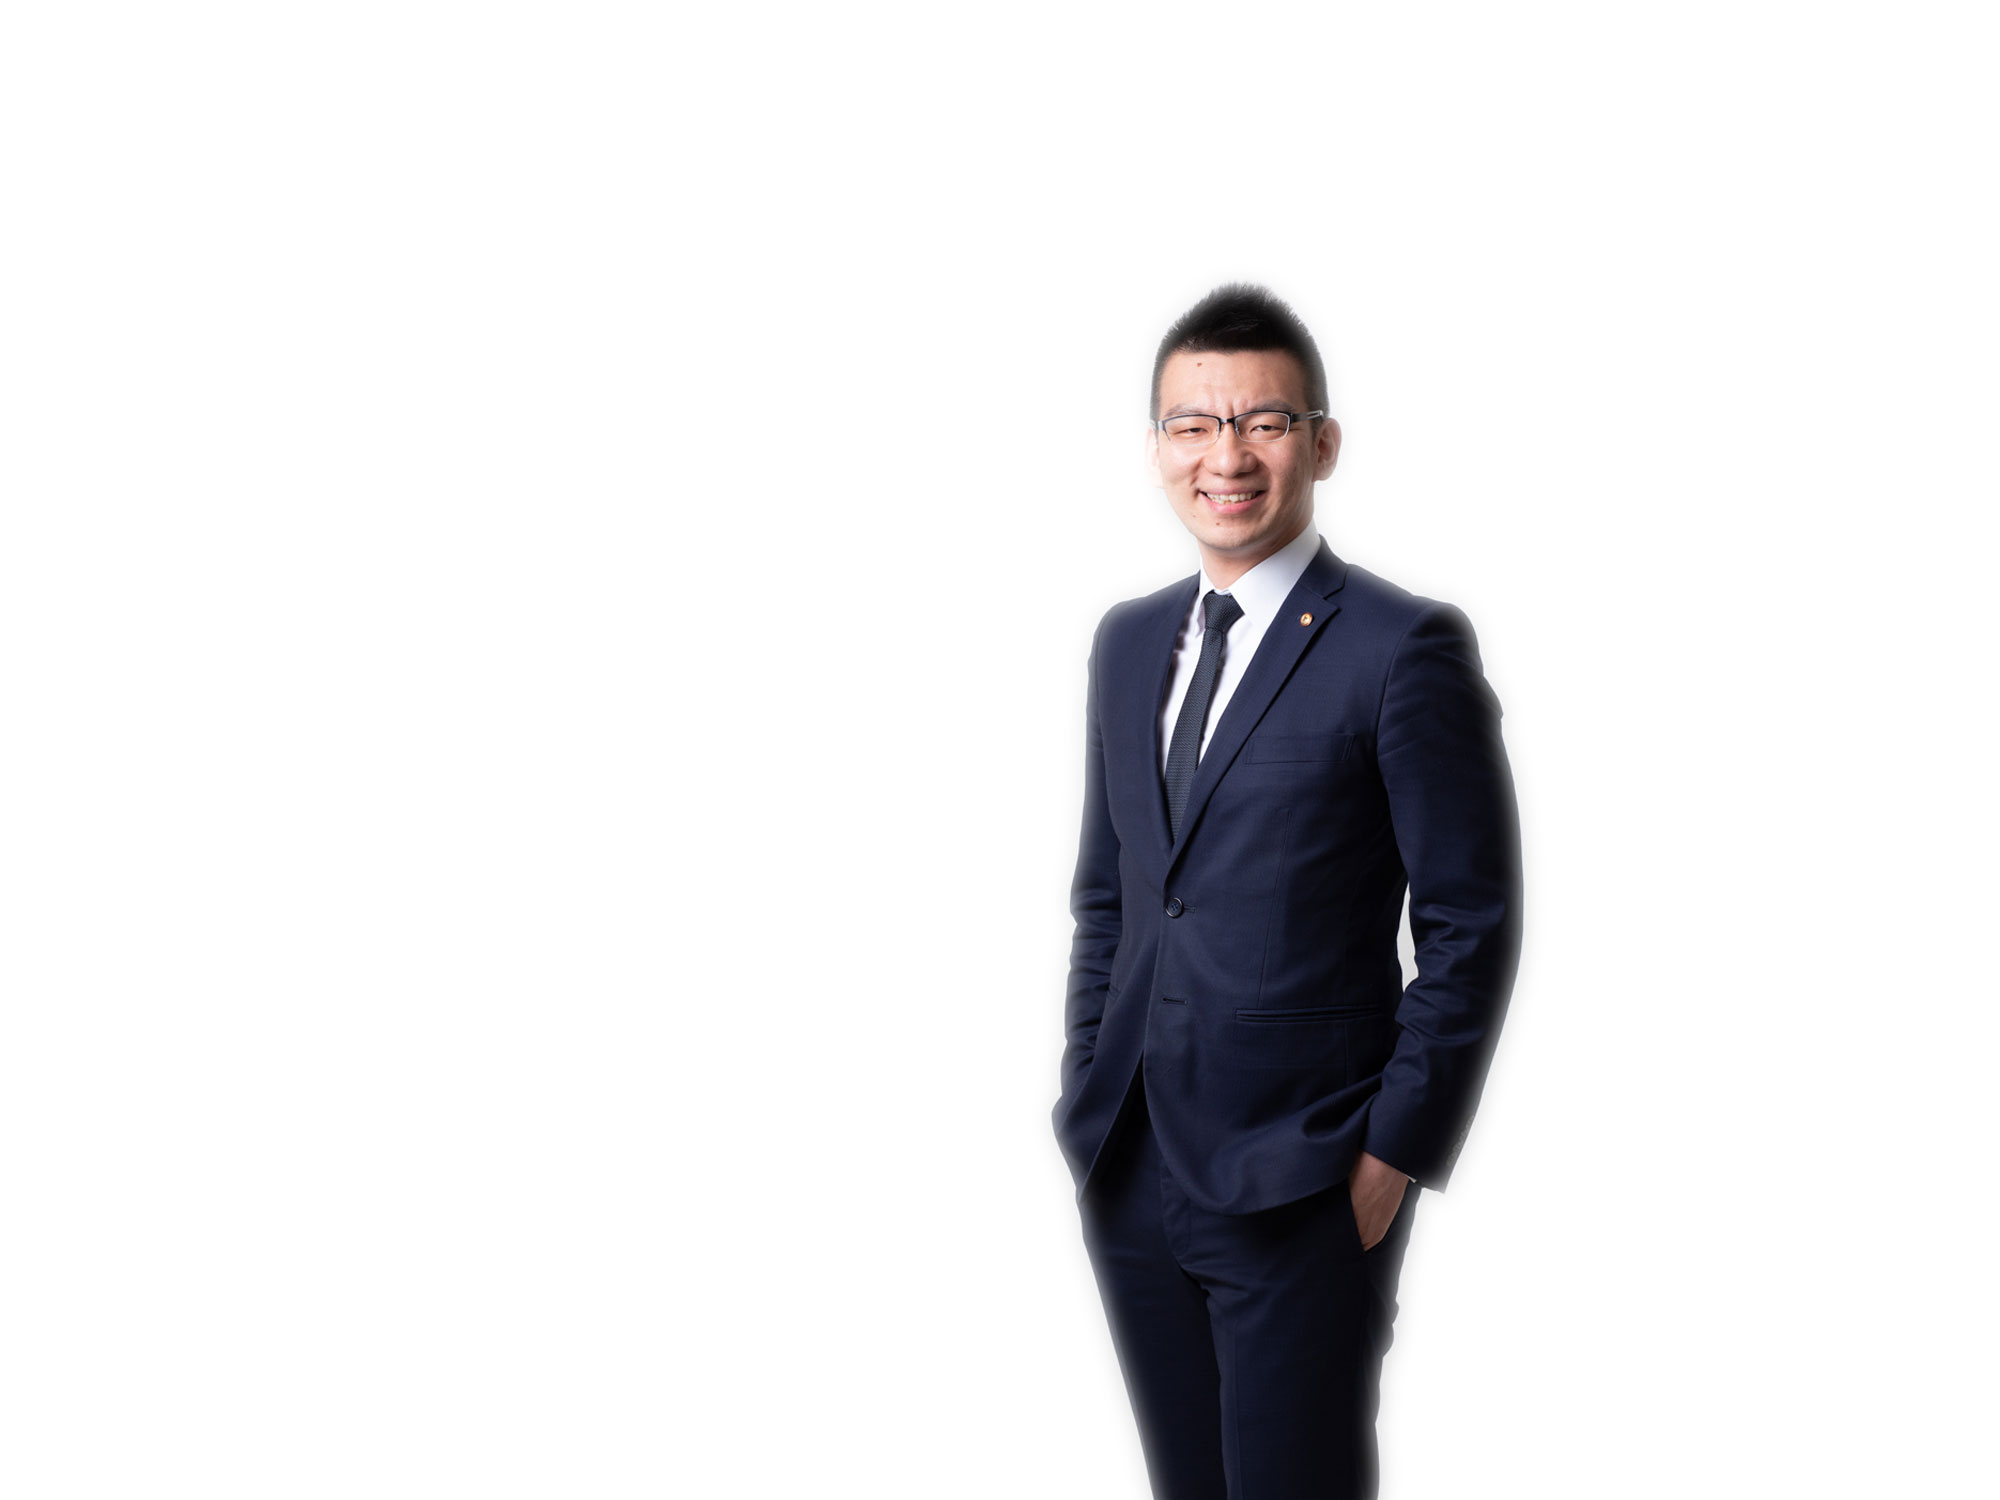
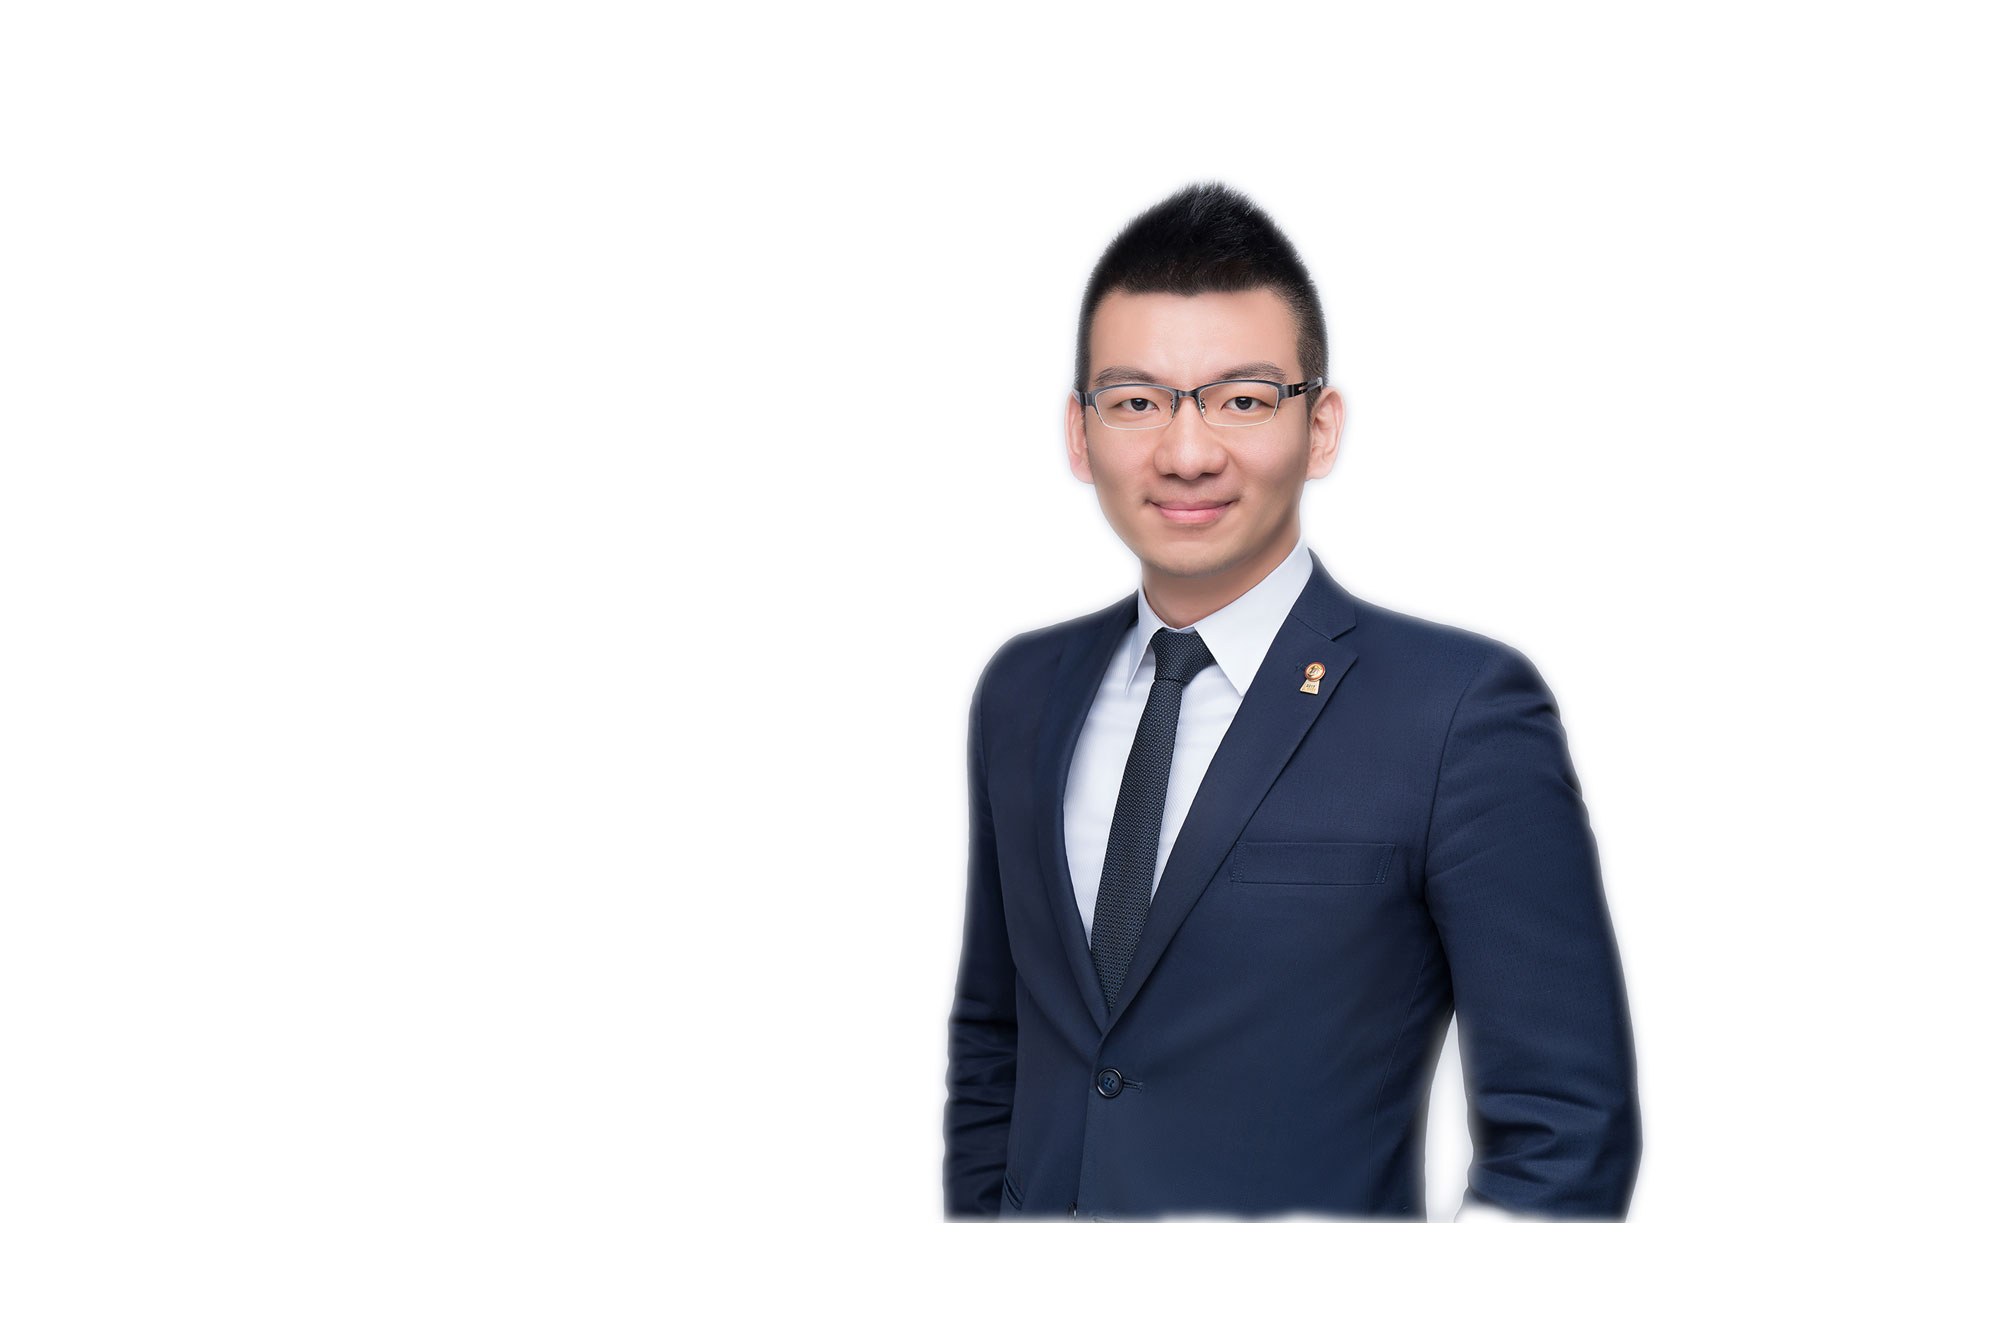
update photo & description

Changed region(s): [[0.465, 0.123, 0.837, 1.0]]

diff --git a/index.html b/index.html
@@ -11,7 +11,7 @@
     <meta charset="utf-8">
     <meta http-equiv="X-UA-Compatible" content="IE=edge">
     <title>Fisher - 外商壽險顧問</title>
-    <meta name="description" content="">
+    <meta name="description" content="Fisher是一位具有IT背景及專案管理經驗的壽險顧問，曾在大型金控銀行擔任產品經理，客戶涵蓋中小企業主、銀行高管與科技產業工程師，Fisher 致力於提供足額的家庭保障以及退休規劃，平均提升客戶10倍壽險保額，專業領域包括財務風險保障與中長期理財等規劃">
     <meta name="viewport" content="width=device-width, initial-scale=1">
     <meta name="author" content="">
 
